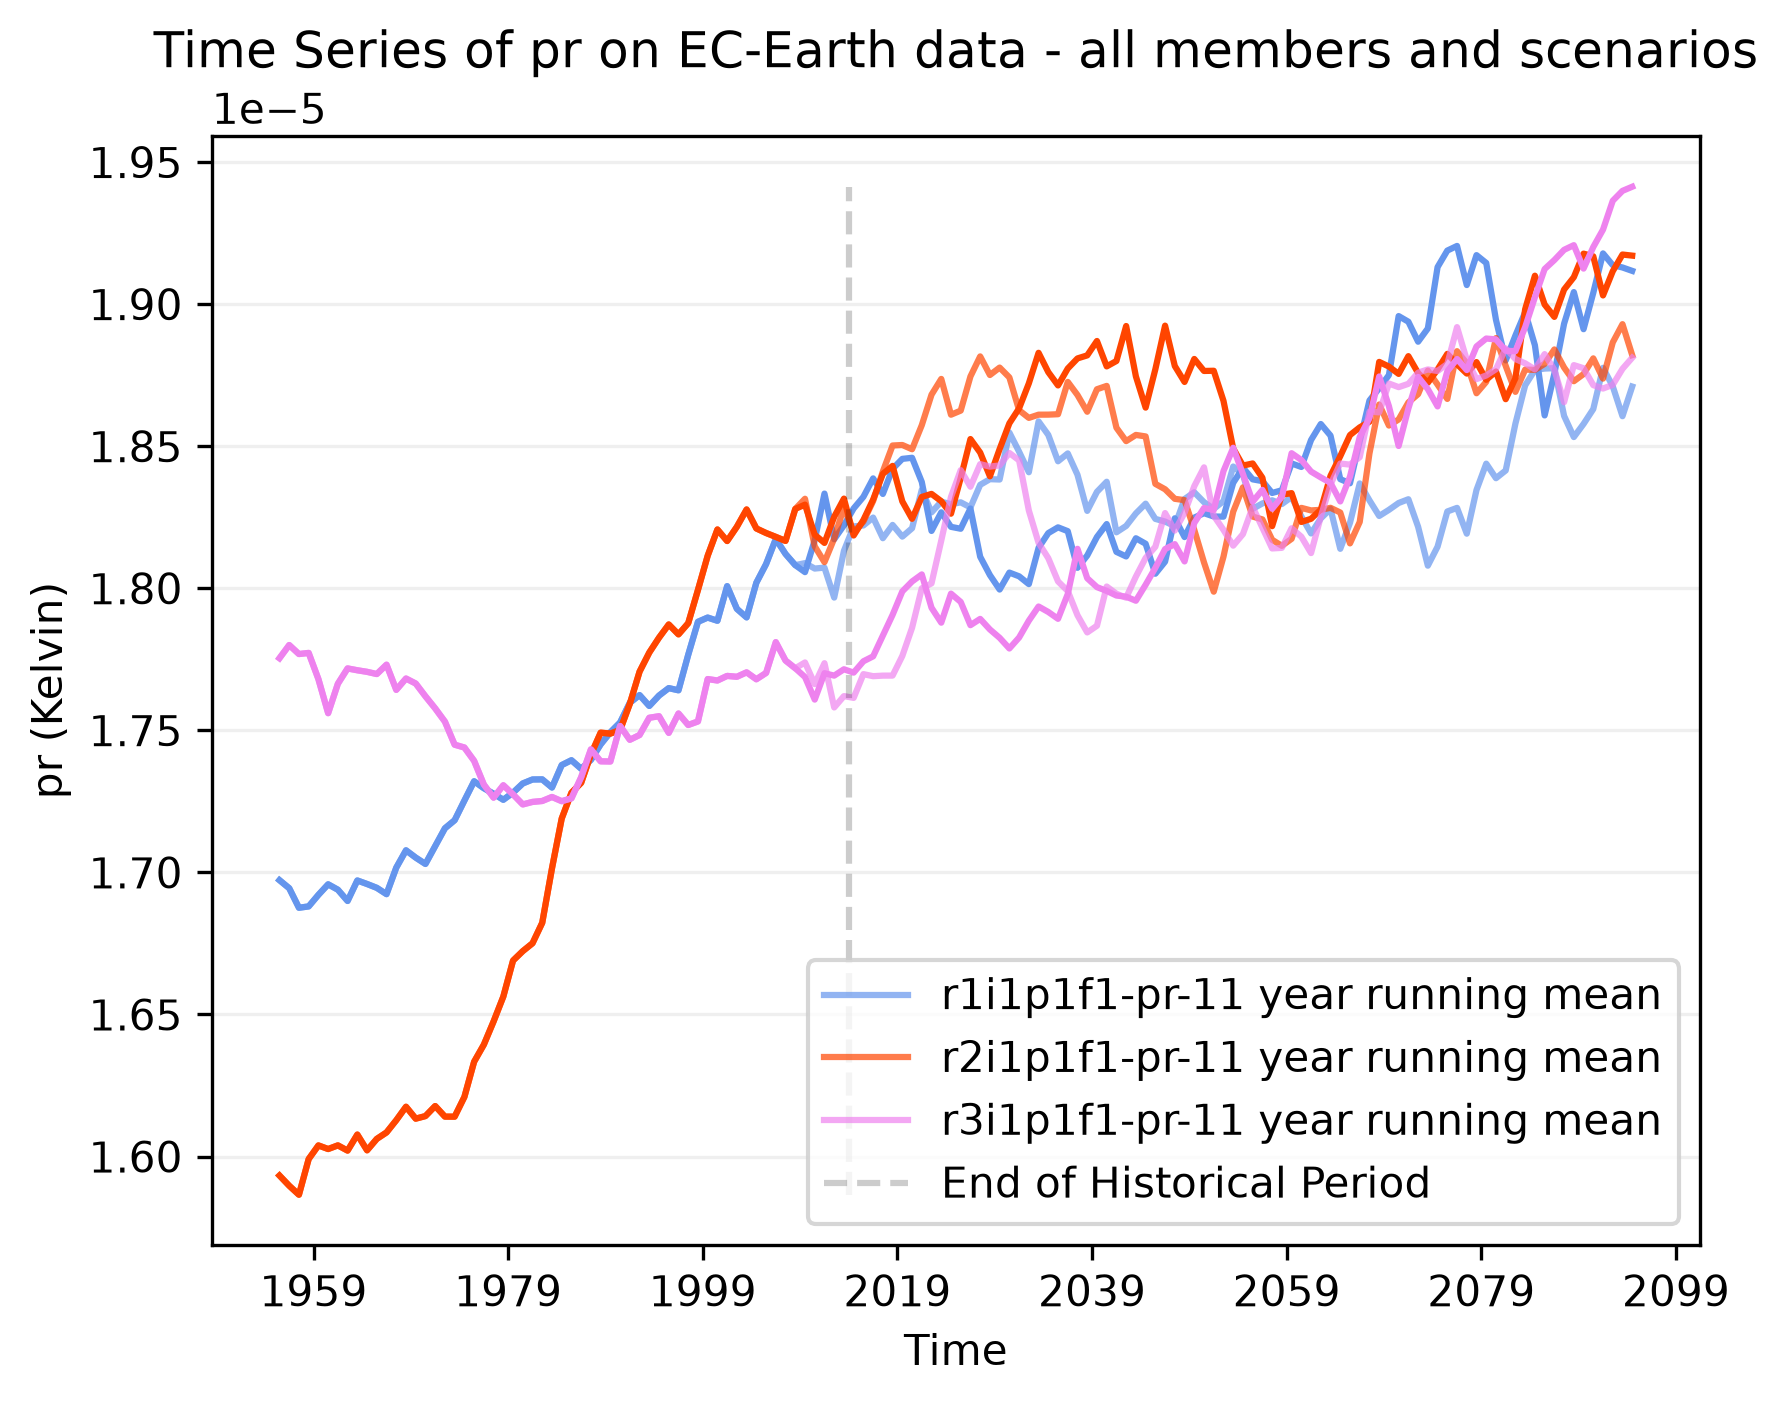
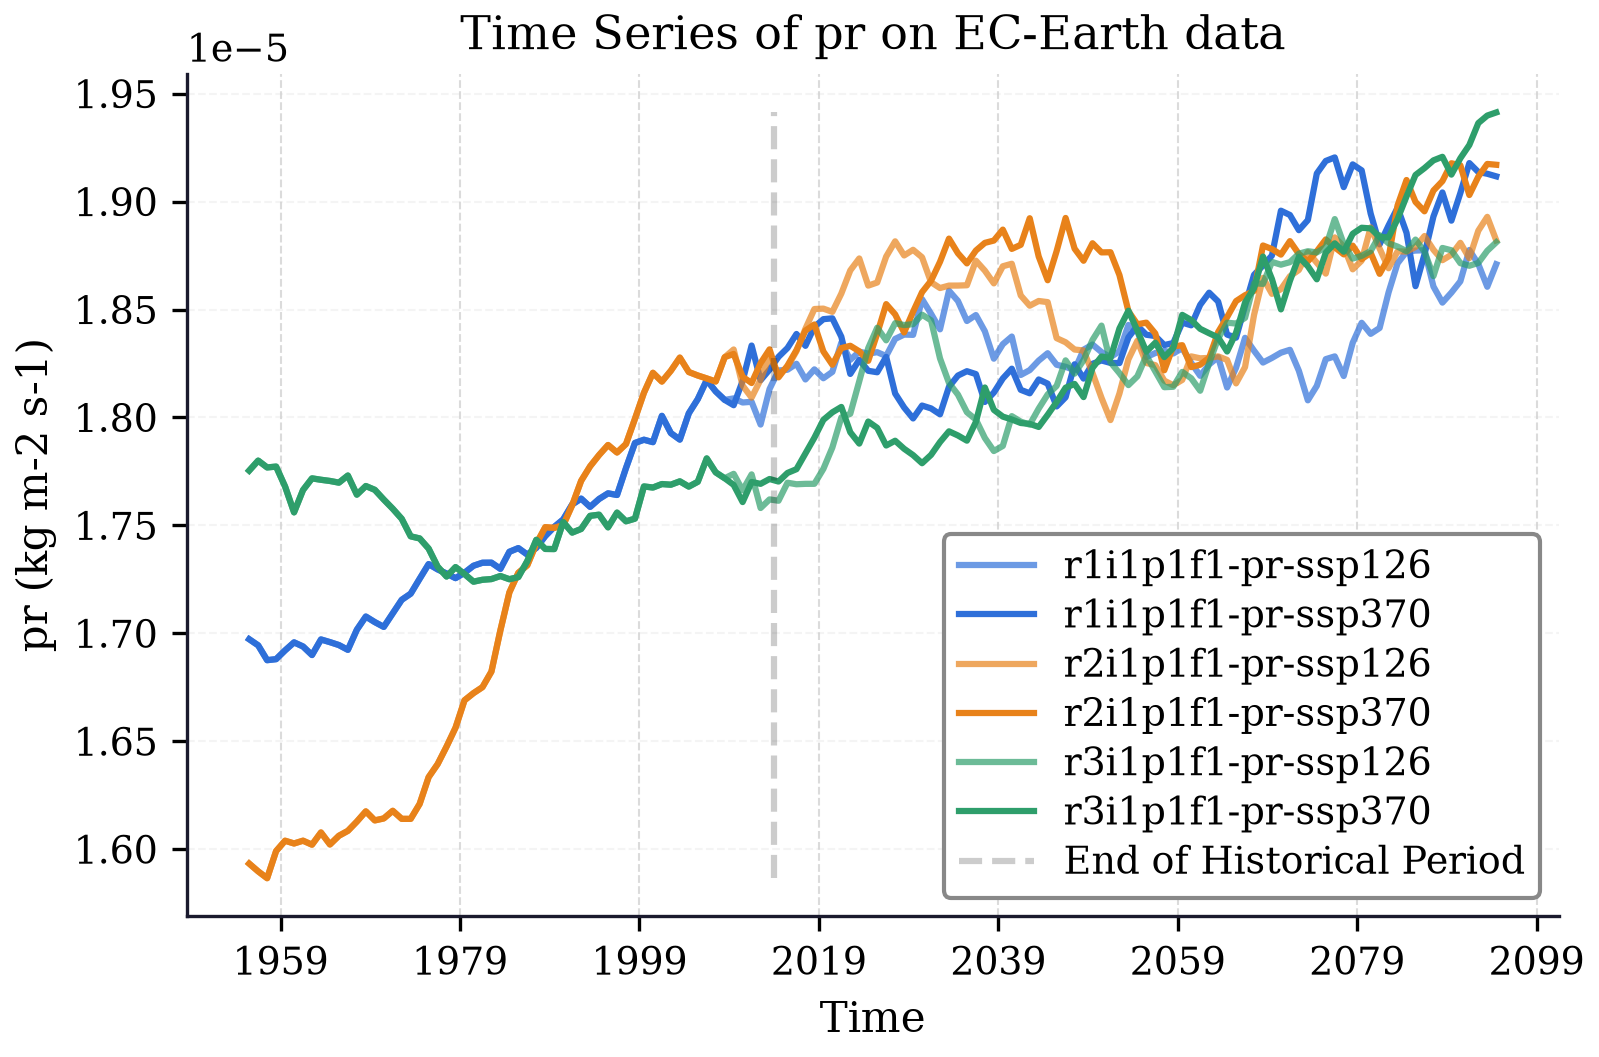
added pr and fixed merge script

diff --git a/figures/plotting_tool.py b/figures/plotting_tool.py
@@ -303,7 +303,7 @@ def plot_timeseries_merged(x='tas', running_mean_window=11, base_path="/scratch/
     plt.vlines(x=np.datetime64("2014-12-31"), ymin=total_min, ymax=total_max, color="black", linestyle="--", alpha=0.2, label="End of Historical Period")
     plt.grid(axis="y", alpha=0.2)
     plt.xlabel("Time")
-    plt.ylabel(f"{x} (Kelvin)")
+    plt.ylabel(f"{x} ({var.attrs['units']})")
     plt.title(f"Time Series of {x} on EC-Earth data")
     plt.legend()
     pg.save(fig, f"./figures/data_section/climatology/timeseries_{x}_{running_mean_window}.png")
@@ -350,7 +350,7 @@ def plot_timeseries_merged_hclim(x='tas', running_mean_window=11, base_path="/sc
     plt.vlines(x=np.datetime64("2014-12-31"), ymin=total_min, ymax=total_max, color="black", linestyle="--", alpha=0.2, label="End of Historical Period")
     plt.grid(axis="y", alpha=0.2)
     plt.xlabel("Time")
-    plt.ylabel(f"{x} (Kelvin)")
+    plt.ylabel(f"{x} ({var.attrs['units']})")
     plt.title(f"Time Series of {x} on HCLIM data")
     plt.legend()
     pg.save(fig, f"./figures/data_section/climatology/timeseries_{x}_{running_mean_window}_hclim.png")
@@ -574,8 +574,8 @@ if __name__ == "__main__":
     # precip_distribution()
     # plot_temp_hclim()
     # plot_timeseries(x='pr')
-    plot_timeseries_merged(x='tas', running_mean_window=11)
-    plot_timeseries_merged_hclim(x='tas', running_mean_window=11)
+    plot_timeseries_merged(x='pr', running_mean_window=11)
+    plot_timeseries_merged_hclim(x='pr', running_mean_window=11)
     # plot_domain()
     # plot_warmest_days()
     # plot_wettest_days()
